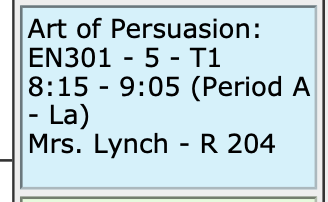
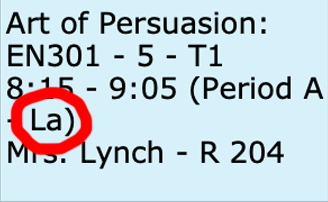
Better instructions, still no database.

diff --git a/Templates/schedule-filler.html b/Templates/schedule-filler.html
@@ -19,15 +19,16 @@
 
 </p>
 	<div class="gallery">
-  		<a target="_blank" href="img_5terre.jpg">
-   			 <img src="/static/Instruction.png" alt="Cinque Terre" width="600" height="400">
+  		<a target="_blank" href="sample-day-0.png">
+   			 <img src="/static/sample-day-0.png" alt="There is supposed to be a picture here!">
 		</a>
 	</div>
 <p class="framed-info">
-	Please enter your schedule information into the site as indicated in the color-coded instruction picture above.
+	Please enter your Day 0 schedule (as illustrated as the picture above).
 	</br>
 	</br>
-	If the course has a "La", check the "Late Lunch" checkbox. If not, leave the box unchecked.
+	<img src="/static/vcschedule.png">
+	If the course has a "La" in the circled area in the picture above, check the "Late Lunch" checkbox. If it says "Ea", leave the box unchecked.
 	</br>
 	</br>
 
@@ -44,7 +45,7 @@
 		</div>
 		<div class="course-input">
 			<div class="text-in">
-				<label for="blockA">Block A:</label><br>
+				<label for="blockA">Day 0, Period 1:</label><br>
 				<input type="text" id="blockA" name="blockA"><br>
 			</div>
 			<div class="checkboxes">
@@ -62,7 +63,42 @@
 
 		<div class="course-input">
 			<div class="text-in">
-				<label for="blockB">Block B:</label><br>
+				<label for="blockG">Day 0, Period 2:</label><br>
+				<input type="text" id="blockG" name="blockG"><br>
+			</div>
+			<div class="checkboxes">
+				<div class="checkbox">
+					<input type="checkbox" id="blockGlab" name="blockGlab" value="True">
+					<label for="blockGlab">Lab Period</label>
+				</div>
+				<div class="checkbox">
+					<input type="checkbox" id="blockGlate" name="blockGlate" value="True">
+					<label for="blockClab">Late Lunch</label>
+				</div>
+			</div>
+		</div>
+
+		<div class="course-input">
+			<div class="text-in">
+				<label for="blockF">Day 0, Period 3:</label><br>
+				<input type="text" id="blockF" name="blockF"><br>
+			</div>
+			<div class="checkboxes">
+				<div class="checkbox">
+					<input type="checkbox" id="blockFlab" name="blockFlab" value="True">
+					<label for="blockFlab">Lab Period</label>
+				</div>
+				<div class="checkbox">
+					<input type="checkbox" id="blockFlate" name="blockFlate" value="True">
+					<label for="blockFlab">Late Lunch</label>
+				</div>
+			</div>
+		</div>
+
+
+		<div class="course-input">
+			<div class="text-in">
+				<label for="blockB">Day 0, Period 4:</label><br>
 				<input type="text" id="blockB" name="blockB"><br>
 			</div>
 
@@ -79,9 +115,45 @@
 
 		</div>
 
+
 		<div class="course-input">
 			<div class="text-in">
-				<label for="blockC">Block C:</label><br>
+				<label for="blockD">Day 0, Period 5:</label><br>
+				<input type="text" id="blockD" name="blockD"><br>
+			</div>
+			<div class="checkboxes">
+				<div class="checkbox">
+					<input type="checkbox" id="blockDlab" name="blockDlab" value="True">
+					<label for="blockDlab">Lab Period</label>
+				</div>
+				<div class="checkbox">
+					<input type="checkbox" id="blockDlate" name="blockDlate" value="True">
+					<label for="blockDlab">Late Lunch</label>
+				</div>
+			</div>
+
+		</div>
+
+		<div class="course-input">
+			<div class="text-in">
+				<label for="blockH">Day 0, Period 6:</label><br>
+				<input type="text" id="blockH" name="blockH"><br>
+			</div>
+			<div class="checkboxes">
+				<div class="checkbox">
+					<input type="checkbox" id="blockHlab" name="blockHlab" value="True">
+					<label for="blockHlab">Lab Period</label>
+				</div>
+				<div class="checkbox">
+					<input type="checkbox" id="blockHlate" name="blockHlate" value="True">
+					<label for="blockHlab">Late Lunch</label>
+				</div>
+			</div>
+		</div>
+
+			<div class="course-input">
+			<div class="text-in">
+				<label for="blockC">Day 0, Period 7:</label><br>
 				<input type="text" id="blockC" name="blockC"><br>
 			</div>
 
@@ -100,25 +172,7 @@
 
 		<div class="course-input">
 			<div class="text-in">
-				<label for="blockD">Block D:</label><br>
-				<input type="text" id="blockD" name="blockD"><br>
-			</div>
-			<div class="checkboxes">
-				<div class="checkbox">
-					<input type="checkbox" id="blockDlab" name="blockDlab" value="True">
-					<label for="blockDlab">Lab Period</label>
-				</div>
-				<div class="checkbox">
-					<input type="checkbox" id="blockDlate" name="blockDlate" value="True">
-					<label for="blockDlab">Late Lunch</label>
-				</div>
-			</div>
-
-		</div>
-
-		<div class="course-input">
-			<div class="text-in">
-				<label for="blockE">Block E:</label><br>
+				<label for="blockE">Day 0, Period 8:</label><br>
 				<input type="text" id="blockE" name="blockE"><br>
 			</div>
 
@@ -134,59 +188,11 @@
 				</div>
 			</div>
 		</div>
-
-		<div class="course-input">
-			<div class="text-in">
-				<label for="blockF">Block F:</label><br>
-				<input type="text" id="blockF" name="blockF"><br>
-			</div>
-			<div class="checkboxes">
-				<div class="checkbox">
-					<input type="checkbox" id="blockFlab" name="blockFlab" value="True">
-					<label for="blockFlab">Lab Period</label>
-				</div>
-				<div class="checkbox">
-					<input type="checkbox" id="blockFlate" name="blockFlate" value="True">
-					<label for="blockFlab">Late Lunch</label>
-				</div>
-			</div>
-		</div>
-
-		<div class="course-input">
-			<div class="text-in">
-				<label for="blockG">Block G:</label><br>
-				<input type="text" id="blockG" name="blockG"><br>
-			</div>
-			<div class="checkboxes">
-				<div class="checkbox">
-					<input type="checkbox" id="blockGlab" name="blockGlab" value="True">
-					<label for="blockGlab">Lab Period</label>
-				</div>
-				<div class="checkbox">
-					<input type="checkbox" id="blockGlate" name="blockGlate" value="True">
-					<label for="blockClab">Late Lunch</label>
-				</div>
-			</div>
-		</div>
-
-		<div class="course-input">
-			<div class="text-in">
-				<label for="blockH">Block H:</label><br>
-				<input type="text" id="blockH" name="blockH"><br>
-			</div>
-			<div class="checkboxes">
-				<div class="checkbox">
-					<input type="checkbox" id="blockHlab" name="blockHlab" value="True">
-					<label for="blockHlab">Lab Period</label>
-				</div>
-				<div class="checkbox">
-					<input type="checkbox" id="blockHlate" name="blockHlate" value="True">
-					<label for="blockHlab">Late Lunch</label>
-				</div>
-			</div>
-		</div>
 				<input type="submit" value="Submit">
 	</div>
+
+
+
 </form>
 
 <p class="credit">This website is developed by Louis Ye, class of 23. </br>Email address:  23yel@shadysideacademy.org</p>

diff --git a/static/styles/site-styling.css b/static/styles/site-styling.css
@@ -1,7 +1,7 @@
 p {
     color: rgb(4,30,66);
     text-align: center;
-    font-size: 30px;
+    font-size: 20px;
     padding: 30px;
 }
 .credit{
@@ -9,10 +9,11 @@ p {
 }
 
 .framed-info{
-    border: solid rgb(4,30,66);
-    width: 80%;
+    border-bottom: solid rgb(4,30,66);
+    width: 70%;
     margin: auto;
     padding: 20px;
+    margin-bottom: 20px;
 }
 h1 {
     background-color: rgb(4,30,66);
@@ -29,17 +30,19 @@ h4 {
 }
 
 div.gallery {
-  width: 80%;
+  width: 85%;
   border-left: 30px solid rgb(4, 30,66);
-  border-bottom: 3px solid rgb(4,30,66);
+  border-bottom: 1px solid rgb(4,30,66);
   margin-bottom: 50px;
   margin-top: 50px;
+
 }
 
 
 div.gallery img {
   width: 100%;
   height: auto;
+
 }
 
 h3 {
